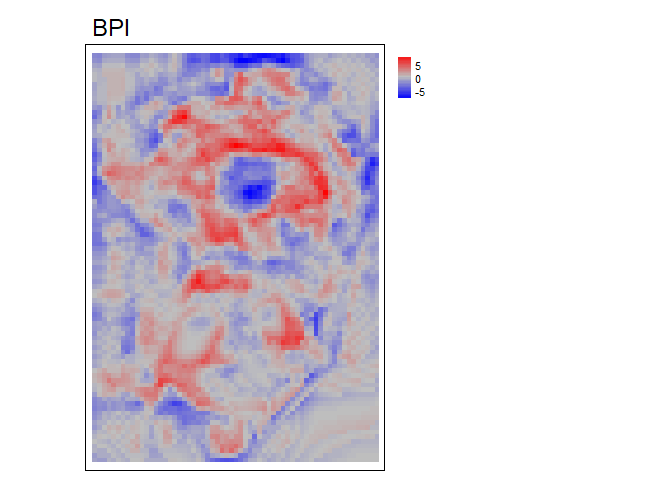
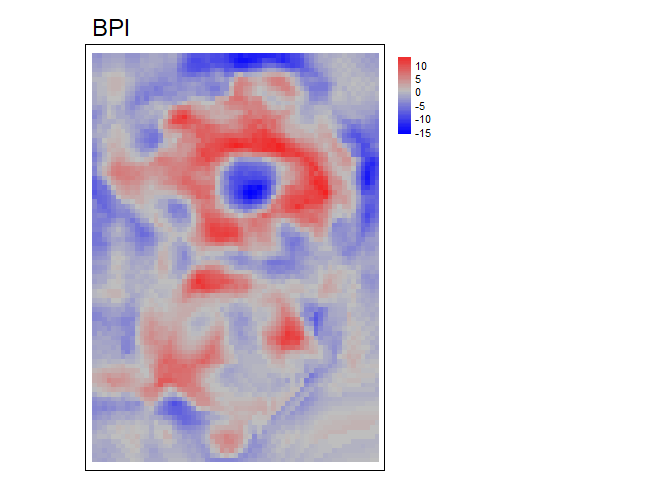
Add some new figs to ReadME

diff --git a/README.md b/README.md
@@ -1,7 +1,7 @@
 README
 ================
 Alexander Ilich
-April 26, 2022
+May 04, 2022
 
 # MultiscaleDTM
 
@@ -17,7 +17,11 @@ Steven A.; 2021. “MultiscaleDTM”, <doi:10.5281/zenodo.5548338>.
 
 This package calculates multi-scale geomorphometric terrain attributes
 from regularly gridded digital terrain models (DTM; i.e. elevation or
-bathymetry rasters).
+bathymetry rasters) via a specified window size.
+
+<img src="images/kwindow.png" width="50%">
+
+Adapted from Wilson et al., 2007
 
 ## Install and Load Package
 
@@ -48,14 +52,14 @@ Windows or Mac or `remotes::install_github("rspatial/raster")` on Linux.
 -   `SlpAsp` calculates multi-scale slope and aspect according to Misiuk
     et al (2021) which is a modification of the traditional 3 x 3 slope
     and aspect algorithms (Fleming and Hoffer, 1979; Horn et al., 1981;
-    Ritter, 1987).
+    Ritter, 1987). <img src="images/SlpAsp.png" width="70%">
 
 -   `Qfit` calculates slope, aspect, curvature, and morphometric
     features by fitting a quadratic surface to the focal window using
     ordinary least squares (Evans, 1980; Wilson et al., 2007; Wood,
     1996). The morphometric features algorithm has been modified to use
     more robust measures of curvature based on the suggestions of Minár
-    et al. (2020).
+    et al. (2020). <img src="images/Qfit_annotated.png" width="70%">
 
 ### Rugosity
 
@@ -79,7 +83,7 @@ Windows or Mac or `remotes::install_github("rspatial/raster")` on Linux.
     ordinary least squares, and then extracting the residuals, and then
     calculating the standard deviation of the residuals.
 
-![](images/adj_sd.png)
+<img src="images/adj_sd.png" width="80%">
 
 ### Relative Position
 
@@ -94,18 +98,24 @@ Windows or Mac or `remotes::install_github("rspatial/raster")` on Linux.
 
 -   `BPI` - Bathymetric Position Index (Lundblad et al., 2006) is the
     difference between the value of a focal cell and the mean of the
-    surrounding cells contained within an annulus shaped window.
+    surrounding cells contained within an annulus shaped window. It is a
+    modification of TPI that uses an annulus shaped focal window and
+    therefore requires an inner and outer radius. For example, an
+    annulus window with an inner radius of 4 cells and an outer radius
+    of 6 cells would be
+
+<img src="images/BPI_Fig.png" width="70%">
 
 ## Tutorial
 
 In this tutorial we will calculate various terrain attributes using a 5
 x 5 cell rectangular window. Any rectangular odd numbered window size
-however could be used. Window sizes are specified with a vector of
-length 2 of `c(n_rows, n_cols)`. If a single number is provided it will
-be used for both the number of rows and columns. The only metric that
-does not follow this syntax is BPI which uses an annulus shaped focal
-window which we will calculate using an inner radius of 2 and an outer
-radius of 4 cells.
+however could be used (see figure directly below). Window sizes are
+specified with a vector of length 2 of `c(n_rows, n_cols)`. If a single
+number is provided it will be used for both the number of rows and
+columns. The only metric that does not follow this syntax is BPI which
+uses an annulus shaped focal window which we will calculate using an
+inner radius of 4 and an outer radius of 6 cells.
 
 **Load packages**
 
@@ -183,32 +193,35 @@ rdmv<- RDMV(r, w=c(5,5), na.rm = TRUE, method="range")
 ![](README_files/figure-gfm/unnamed-chunk-18-1.png)<!-- -->
 
 ``` r
-bpi<- BPI(r, radius = c(2,4), unit = "cell", na.rm = TRUE)
+bpi<- BPI(r, radius = c(4,6), unit = "cell", na.rm = TRUE)
 ```
 
 ![](README_files/figure-gfm/unnamed-chunk-20-1.png)<!-- -->
 
-BPI is a modification of TPI that uses an annulus shaped focal window
-and therefore requires an inner and outer radius. This can be specified
-in cell units (number of raster cells) or in map units (e.g. meters)
-which can be useful if your x and y resolutions are not equal. For
-example, an annulus window with an inner radius of 2 cells and an outer
-radius of 4 cells would be
+The annulus window for BPI can be specified in either cell units (number
+of raster cells) or in map units (e.g. meters) which can be useful if
+your x and y resolutions are not equal. Additionally, the function
+`annulus_window` can be used to verify that you are specifying your
+window correctly (NA’s are excluded cells and 1’s are included cells)
 
 ``` r
-annulus_window(radius = c(2,4), unit = "cell")
+annulus_window(radius = c(4,6), unit = "cell")
 ```
 
-    ##       [,1] [,2] [,3] [,4] [,5] [,6] [,7] [,8] [,9]
-    ##  [1,]   NA   NA   NA   NA    1   NA   NA   NA   NA
-    ##  [2,]   NA   NA    1    1    1    1    1   NA   NA
-    ##  [3,]   NA    1    1    1    1    1    1    1   NA
-    ##  [4,]   NA    1    1   NA   NA   NA    1    1   NA
-    ##  [5,]    1    1    1   NA   NA   NA    1    1    1
-    ##  [6,]   NA    1    1   NA   NA   NA    1    1   NA
-    ##  [7,]   NA    1    1    1    1    1    1    1   NA
-    ##  [8,]   NA   NA    1    1    1    1    1   NA   NA
-    ##  [9,]   NA   NA   NA   NA    1   NA   NA   NA   NA
+    ##       [,1] [,2] [,3] [,4] [,5] [,6] [,7] [,8] [,9] [,10] [,11] [,12] [,13]
+    ##  [1,]   NA   NA   NA   NA   NA   NA    1   NA   NA    NA    NA    NA    NA
+    ##  [2,]   NA   NA   NA    1    1    1    1    1    1     1    NA    NA    NA
+    ##  [3,]   NA   NA    1    1    1    1    1    1    1     1     1    NA    NA
+    ##  [4,]   NA    1    1    1   NA   NA   NA   NA   NA     1     1     1    NA
+    ##  [5,]   NA    1    1   NA   NA   NA   NA   NA   NA    NA     1     1    NA
+    ##  [6,]   NA    1    1   NA   NA   NA   NA   NA   NA    NA     1     1    NA
+    ##  [7,]    1    1    1   NA   NA   NA   NA   NA   NA    NA     1     1     1
+    ##  [8,]   NA    1    1   NA   NA   NA   NA   NA   NA    NA     1     1    NA
+    ##  [9,]   NA    1    1   NA   NA   NA   NA   NA   NA    NA     1     1    NA
+    ## [10,]   NA    1    1    1   NA   NA   NA   NA   NA     1     1     1    NA
+    ## [11,]   NA   NA    1    1    1    1    1    1    1     1     1    NA    NA
+    ## [12,]   NA   NA   NA    1    1    1    1    1    1     1    NA    NA    NA
+    ## [13,]   NA   NA   NA   NA   NA   NA    1   NA   NA    NA    NA    NA    NA
 
 # References
 
